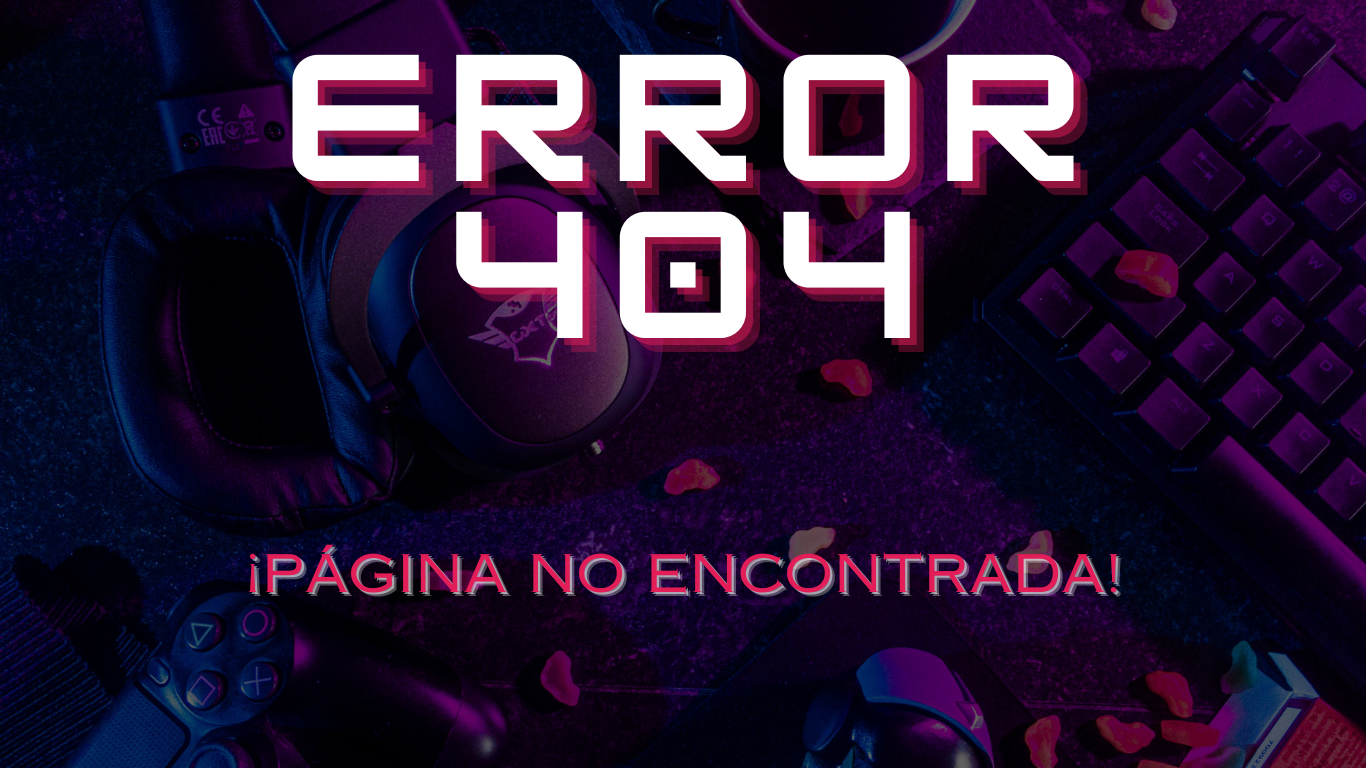
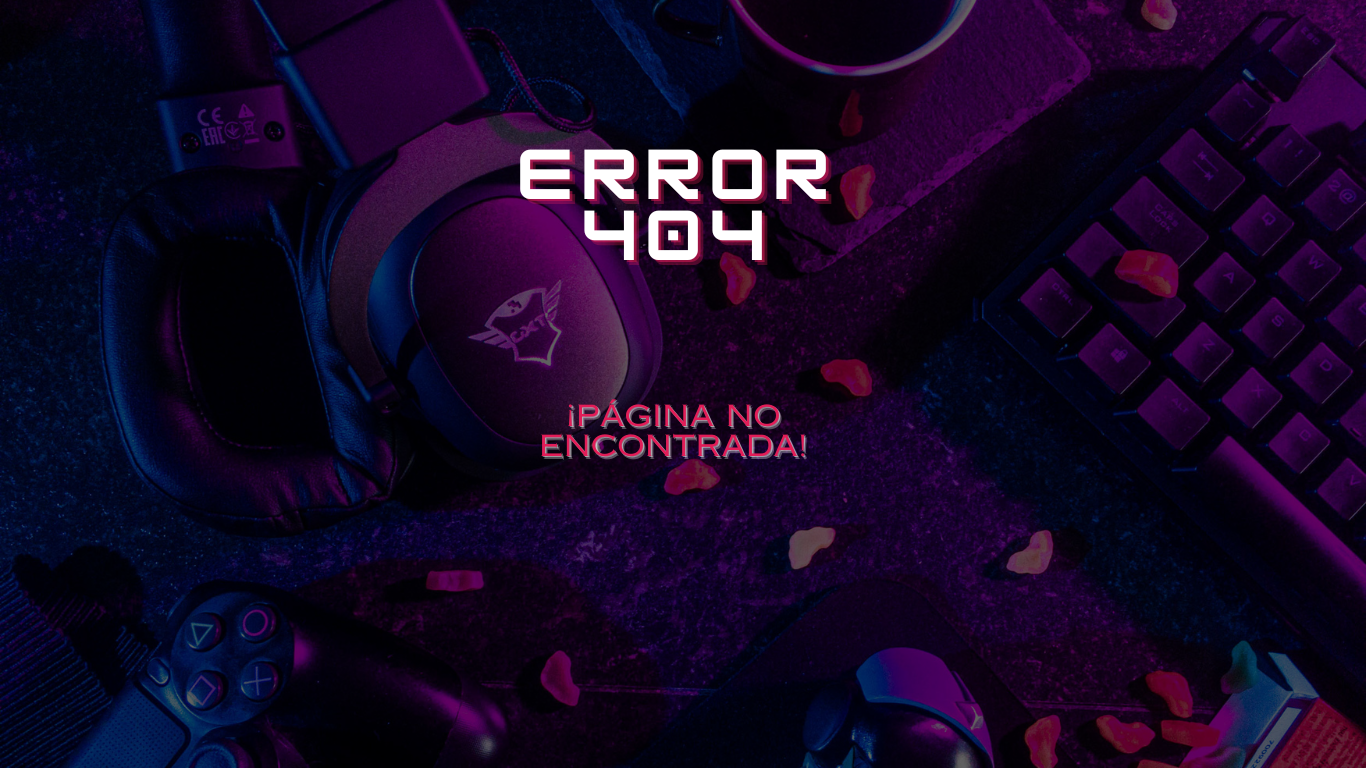
pagina 404 simple

Changed region(s): [[0.2152, 0.0625, 0.7994, 0.4688], [0.1845, 0.7188, 0.8302, 0.7812], [0.3997, 0.5, 0.6149, 0.5938]]

diff --git a/pages/Error404.html b/pages/Error404.html
@@ -13,11 +13,20 @@
     <link rel="stylesheet" href="../css/index.css">
     <link rel="stylesheet" href="../css/navbar.css">
     <title>Rolling Components</title>
+    <style>
+      .cuerpo-404{
+        width: 100%;
+        height: 100vh;
+        background-image: url("../assets/Error404.png");
+        background-size: cover;
+        background-position: center;
+      }
+    </style>
     
   </head>
   <body>
     <!-- Comienzo sección Navbar-->
-    <div class=" mb-1">
+    <div class="">
       <!-- First Navbar -->
       <nav class="navbar navbar-expand-lg navbar-dark bg-black">
         <div class="container-fluid p-2">
@@ -72,8 +81,9 @@
     
     
     <!-- Fin sección Navbar-->
-<h1>Error 404</h1>
-<a href="../index.html">Volver a inicio</a>
+<div class="cuerpo-404">
+
+</div>
   <!--Comienzo Footer-->
   <div class="footer">
     <div class="container-fluid">
